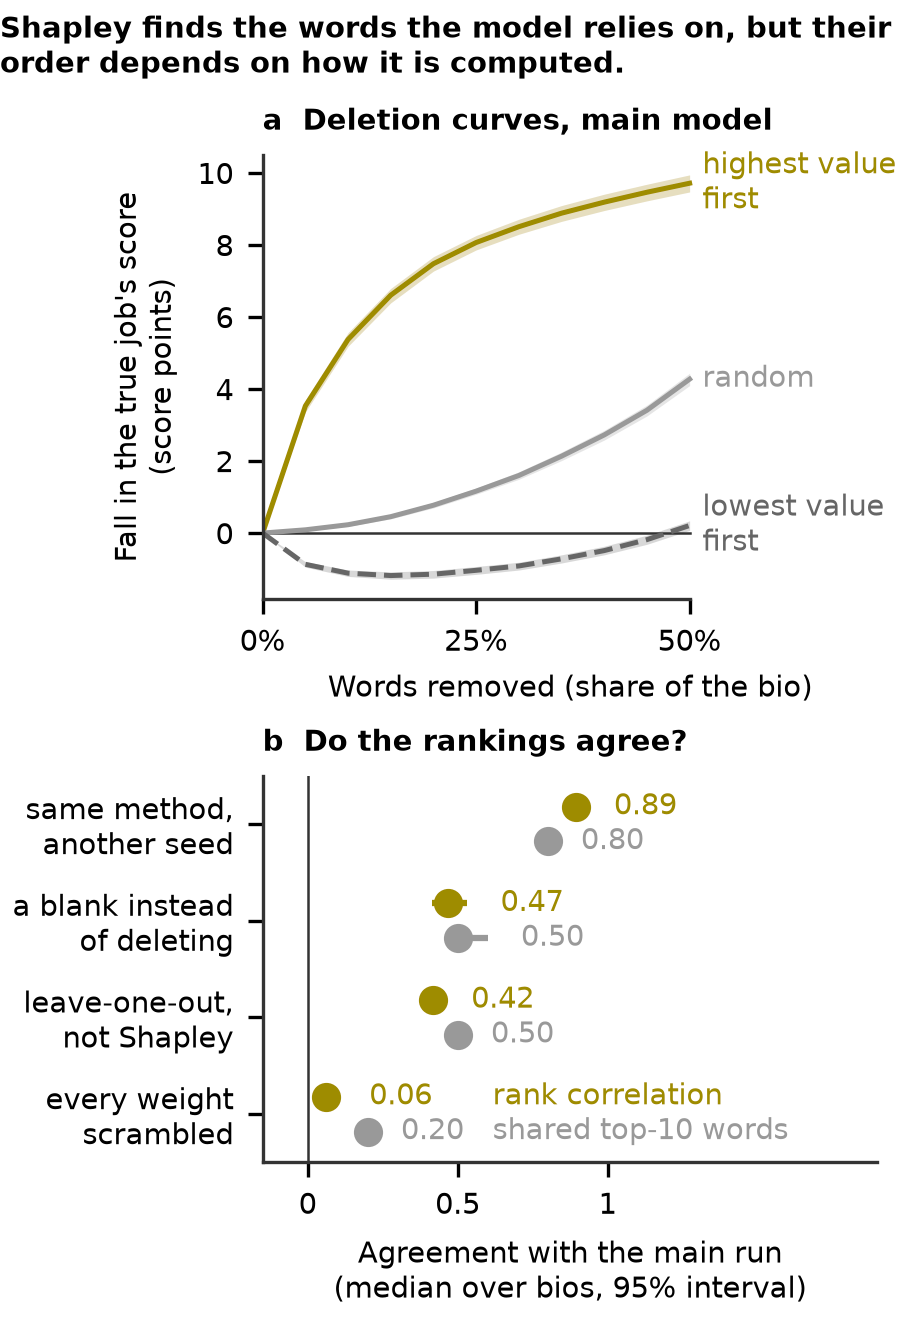
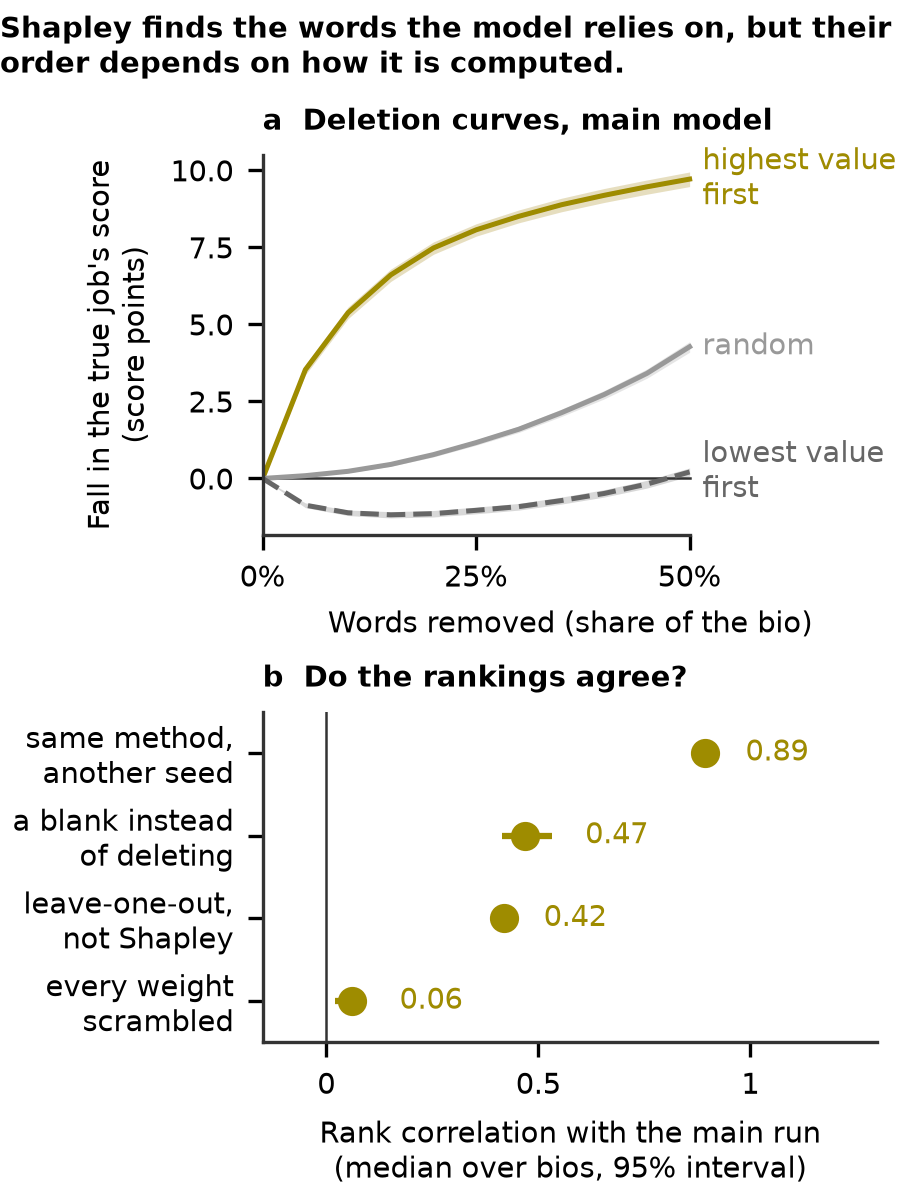
F5 panel b: rank correlation only

diff --git a/scripts/figure_f5.py b/scripts/figure_f5.py
@@ -3,8 +3,8 @@
 Panel a: the main model's deletion curves from `results/deletion_curves.csv`: the fall in the
 score of the true occupation as words are removed most important first (highlight), at
 random (grey, with its 95% interval over bios) and least important first. Panel b: the
-median Spearman correlation and the median top-10 overlap, with 95% bootstrap intervals, of the
-three checks in `results/stability.json`, sorted by the correlation. Each row says what changed
+median Spearman correlation, with its 95% bootstrap interval, of the
+checks in `results/stability.json`, sorted by the correlation. Each row says what changed
 from the main run (Shapley, delete removal, seed 42).
 The title states the finding: whether the deletion check of `results/deletion_areas.json` holds,
 and whether another way of computing the values moves the ranking further than a rerun with
@@ -24,13 +24,11 @@ SCREENER = "deberta"
 FIGURE_NAME = "f5_explanation_checks"
 DARK = "#333333"
 LERF = "#666666"  # a mid grey: darker than random's NEUTRAL, with its own dashed line
-HEIGHT_INCHES = 4.4
+HEIGHT_INCHES = 4.0
 LAST_STEP = 0.5  # the deletion curves stop at half of the words
 LABEL_ROOM = 0.22  # room right of the last step for the curve labels, in fractions of the bio
 LABEL_GAP = 0.13  # least distance between curve labels, as a share of the y range
-NAME_OFFSET_PT = 30  # the measure names sit this far right of the last row's intervals
 LABEL_OFFSET_PT = 8  # gap between a dot and its value, in points
-OFFSET = 0.18  # distance of each dot from the row's centre line
 CURVES = (
     ("morf", HIGHLIGHT, "-", "highest value\nfirst"),
     ("random", NEUTRAL, "-", "random"),
@@ -102,45 +100,27 @@ def _agreement_panel(ax, stability: dict) -> None:
     names = sorted(checks, key=lambda name: -checks[name]["spearman"]["median"])
     rows = list(range(len(names)))
     ax.axvline(0, color=DARK, lw=0.6)
-    for metric, colour, shift, label in (
-        ("spearman", HIGHLIGHT, -OFFSET, "rank correlation"),
-        ("top10_overlap", NEUTRAL, OFFSET, "shared top-10 words"),
-    ):
-        ys = [row + shift for row in rows]
-        values = [checks[name][metric]["median"] for name in names]
-        bounds = [checks[name][metric]["median_ci"] for name in names]
-        ax.hlines(ys, [b[0] for b in bounds], [b[1] for b in bounds], colors=colour)
-        ax.scatter(values, ys, c=colour, zorder=3)
-        for y, value, bound in zip(ys, values, bounds, strict=True):
-            ax.annotate(
-                f"{value:.2f}",
-                (max(value, bound[1]), y),
-                xytext=(LABEL_OFFSET_PT, 0),
-                textcoords="offset points",
-                color=colour,
-                va="center",
-                ha="left",
-            )
-        last_high = max(
-            max(checks[names[-1]][m]["median_ci"][1], checks[names[-1]][m]["median"])
-            for m in ("spearman", "top10_overlap")
-        )
+    values = [checks[name]["spearman"]["median"] for name in names]
+    bounds = [checks[name]["spearman"]["median_ci"] for name in names]
+    ax.hlines(rows, [b[0] for b in bounds], [b[1] for b in bounds], colors=HIGHLIGHT)
+    ax.scatter(values, rows, c=HIGHLIGHT, zorder=3)
+    for y, value, bound in zip(rows, values, bounds, strict=True):
         ax.annotate(
-            label,
-            (last_high, ys[-1]),
-            xytext=(NAME_OFFSET_PT, 0),
+            f"{value:.2f}",
+            (max(value, bound[1]), y),
+            xytext=(LABEL_OFFSET_PT, 0),
             textcoords="offset points",
-            color=colour,
+            color=HIGHLIGHT,
             va="center",
             ha="left",
         )
     ax.set_yticks(rows)
     ax.set_yticklabels([CHECK_NAMES[name] for name in names])
     ax.set_ylim(len(names) - 0.5, -0.5)
-    ax.set_xlim(min(0, min(checks[n]["spearman"]["median_ci"][0] for n in names)) - 0.15, 1.9)
+    ax.set_xlim(min(0, min(b[0] for b in bounds)) - 0.15, 1.3)
     ax.set_xticks([0, 0.5, 1])
     ax.xaxis.set_major_formatter(lambda value, _: f"{value:g}")
-    ax.set_xlabel("Agreement with the main run\n(median over bios, 95% interval)")
+    ax.set_xlabel("Rank correlation with the main run\n(median over bios, 95% interval)")
     ax.set_title("b  Do the rankings agree?", loc="left", fontweight="bold")
 
 
